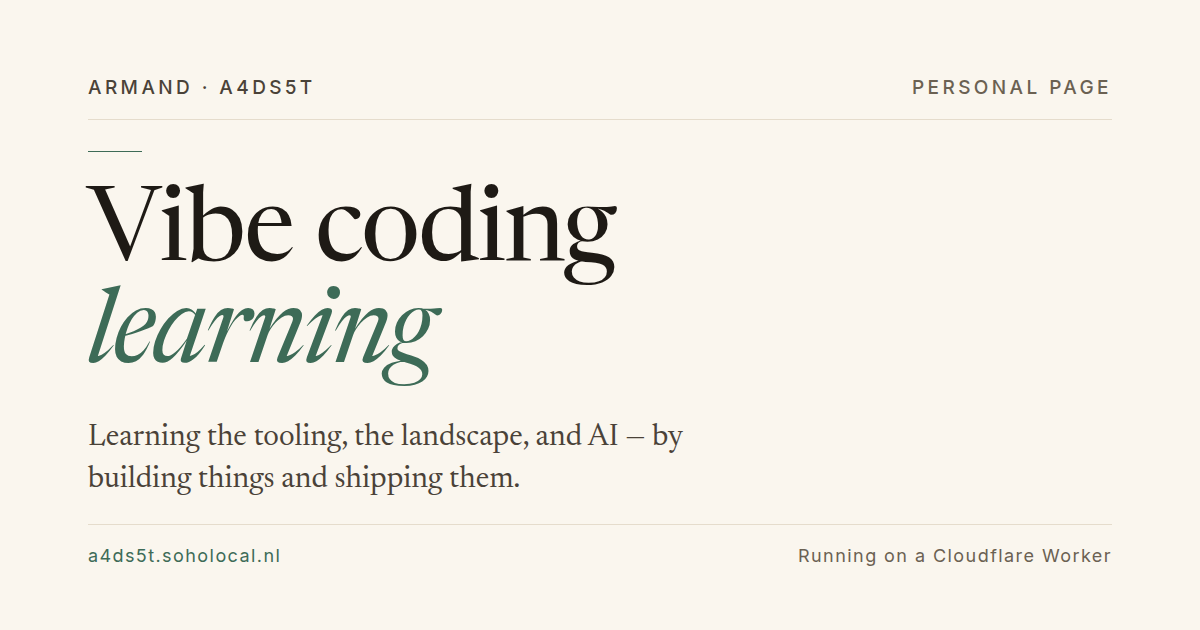
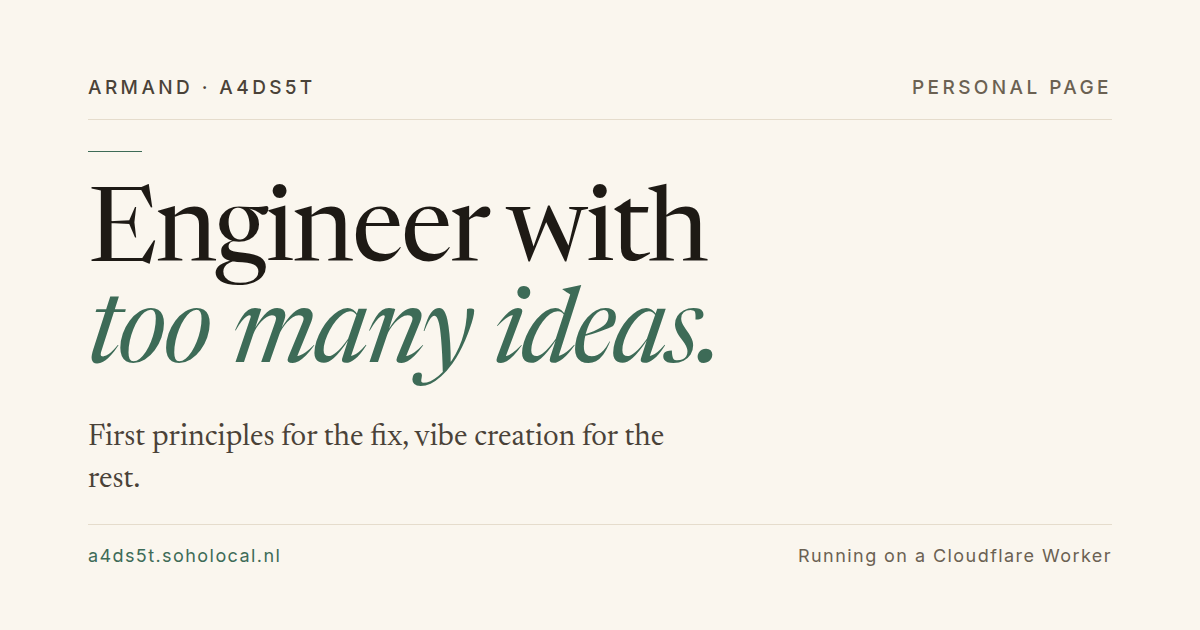
Content and meta update (preview only) (#8)
<!-- CURSOR_AGENT_PR_BODY_BEGIN -->
## Summary
- Refresh header, WHO/NOW/WORKING ON copy; drop top-bar X/GitHub (kept in Elsewhere)
- Add Writing section; Selected posts; Build in Public; **Bluesky** `@a4ds5t.bsky.social` in Elsewhere + JSON-LD `sameAs`
- Update `<head>` / OG / Twitter meta; regenerate `og-image.png`; sitemap `lastmod`; footer `v1.1.0`

## Preview (do not promote from this PR alone)
- Alias: https://content-meta-personal.drallas.workers.dev
- Latest version: `7a0ac875-0546-418c-ae2e-be21fba32b7b`

## Headers
Rebased onto main after #7 — production `_headers` (HSTS + insights CSP) preserved.

## Test plan
- [x] Preview shows new copy + Bluesky in Elsewhere
- [ ] Human Squash & Merge, then production deploy

<!-- CURSOR_AGENT_PR_BODY_END -->
[…]

Changed region(s): [[0.0617, 0.2714, 0.6167, 0.6333], [0.0617, 0.6635, 0.5858, 0.7841]]

diff --git a/public/index.html b/public/index.html
@@ -3,50 +3,48 @@
 <head>
 <meta charset="utf-8"/>
 <meta name="viewport" content="width=device-width, initial-scale=1"/>
-<title>Armand · personal page</title>
-<meta name="description" content="Armand — builds and ships with Grok.bot, Cursor, and Cloudflare Workers."/>
+<title>Armand van der Swaerdt · Engineer with too many ideas</title>
+<meta name="description" content="Engineer with too many ideas. I build small, useful tools with Grok.bot, Cursor and Cloudflare Workers, ship them, and write about it on X."/>
 <meta name="robots" content="index, follow"/>
 <link rel="canonical" href="https://a4ds5t.soholocal.nl/"/>
 <link rel="icon" href="/favicon.svg" type="image/svg+xml"/>
 <meta name="theme-color" content="#FAF6EE"/>
 <meta property="og:type" content="website"/>
 <meta property="og:site_name" content="Armand"/>
-<meta property="og:title" content="Armand · personal page"/>
-<meta property="og:description" content="Learning vibe coding — the tooling, the landscape, and AI — by building things and shipping them."/>
+<meta property="og:title" content="Armand van der Swaerdt · a4ds5t"/>
+<meta property="og:description" content="Engineer with too many ideas. I build small, useful tools with Grok.bot, Cursor and Cloudflare Workers, ship them, and write about it on X."/>
 <meta property="og:url" content="https://a4ds5t.soholocal.nl/"/>
 <meta property="og:image" content="https://a4ds5t.soholocal.nl/og-image.png"/>
 <meta property="og:image:type" content="image/png"/>
 <meta property="og:image:width" content="1200"/>
 <meta property="og:image:height" content="630"/>
-<meta property="og:image:alt" content="Vibe coding learning — Armand · a4ds5t, cream paper card with evergreen accents."/>
+<meta property="og:image:alt" content="Armand · a4ds5t — Engineer with too many ideas."/>
 <meta name="twitter:card" content="summary_large_image"/>
 <meta name="twitter:creator" content="@a4ds5t"/>
 <meta name="twitter:site" content="@a4ds5t"/>
-<meta name="twitter:title" content="Armand · personal page"/>
-<meta name="twitter:description" content="Learning vibe coding — the tooling, the landscape, and AI — by building things and shipping them."/>
+<meta name="twitter:title" content="Armand van der Swaerdt · a4ds5t"/>
+<meta name="twitter:description" content="Engineer with too many ideas. I build small, useful tools with Grok.bot, Cursor and Cloudflare Workers, ship them, and write about it on X."/>
 <meta name="twitter:image" content="https://a4ds5t.soholocal.nl/og-image.png"/>
-<meta name="twitter:image:alt" content="Vibe coding learning — Armand · a4ds5t, cream paper card with evergreen accents."/>
+<meta name="twitter:image:alt" content="Armand · a4ds5t — Engineer with too many ideas."/>
 <link rel="preload" href="/fonts/newsreader-latin.woff2" as="font" type="font/woff2" crossorigin="anonymous"/>
 <link rel="stylesheet" href="/b.css"/>
+<script type="application/ld+json" src="/person.jsonld"></script>
 </head>
 <body>
 <main class="sheet">
 
   <header class="topline">
-    <p class="who">Vibe coding learning</p>
-    <nav aria-label="Elsewhere">
-      <a href="https://x.com/a4ds5t" rel="me noopener">X</a>
-      <a href="https://github.com/a4ds5t" rel="me noopener">GitHub</a>
-    </nav>
+    <p class="who">Engineer with too many ideas.</p>
+    <p class="sub">First principles for the fix, vibe creation for the rest.</p>
   </header>
 
   <section class="row intro" aria-labelledby="hello">
     <p class="label">Who</p>
     <div class="col">
       <h1 id="hello">Hi, I&rsquo;m Armand.</h1>
-      <p class="lead">I build and ship with Grok.bot, Cursor, and Cloudflare Workers.</p>
-      <p>Quiet notes from shipping product and agents on the edge &mdash; the patterns that actually made it to production. Ideas are cheap; speed without taste is cheap too. The rare part is finding a path nobody else takes, then shipping it.</p>
-      <p>Most of what I write lands on X first. GitHub is where the code lives.</p>
+      <p class="lead">I build small, useful things with Grok.bot, Cursor and Cloudflare Workers, and ship them.</p>
+      <p>Ideas are cheap; speed without taste is cheap too. The rare part is finding a path nobody else takes, then shipping it.</p>
+      <p>I write on X first. The code lives on GitHub.</p>
     </div>
   </section>
 
@@ -54,7 +52,7 @@
     <h2 class="label" id="now-label">Now</h2>
     <div class="col now-line">
       <span class="pulse" aria-hidden="true"></span>
-      <p>I&rsquo;m learning vibe coding &mdash; the tooling, the landscape, and what AI can actually do. Most of it I learn by building small things and shipping them.</p>
+      <p>Building in public: small tools that solve real problems, each live on its own subdomain. Writing X Articles about what I learn along the way.</p>
     </div>
   </section>
 
@@ -64,33 +62,60 @@
       <ol class="projects">
         <li>
           <span class="num" aria-hidden="true">01</span>
-          <span class="name"><a href="https://xmas.soholocal.nl/">Christmas countdown</a>
-            <span class="desc">A live countdown to 25 December, in four languages.</span>
+          <span class="name"><a href="https://xmas.soholocal.nl/">Almost Christmas</a>
+            <span class="desc">A live countdown to 25 December in Dutch, English, Spanish and Chinese. <a href="https://x.com/a4ds5t/status/2115381640721576196" rel="noopener">Why I built it</a></span>
           </span>
           <span class="state">Live</span>
         </li>
         <li>
           <span class="num" aria-hidden="true">02</span>
-          <span class="name"><a href="https://start.soholocal.nl/">Start page (minimal)</a>
-            <span class="desc">A quiet personal launcher &mdash; search, clock, a few links.</span>
+          <span class="name"><a href="https://start.soholocal.nl/">StartPage</a>
+            <span class="desc">A fast, minimal browser start page with search, AI and your own links. <a href="https://x.com/a4ds5t/status/2115715496909664616" rel="noopener">Why I built it</a></span>
           </span>
           <span class="state">Live</span>
         </li>
+      </ol>
+      <p class="more"><a href="https://buildinpublic.com/x/a4ds5t" rel="noopener">All projects on Build in Public →</a></p>
+    </div>
+  </section>
+
+  <section class="row" aria-labelledby="writing">
+    <h2 class="label" id="writing">Writing</h2>
+    <div class="col">
+      <ol class="projects">
         <li>
-          <span class="num" aria-hidden="true">03</span>
-          <span class="name">Projects to learn vibe coding
-            <span class="desc">Small builds to learn the tooling, the stack, and the landscape.</span>
+          <span class="num" aria-hidden="true"></span>
+          <span class="name"><a href="https://x.com/a4ds5t/status/2115792089740964220" rel="noopener">What Siri could be with the chips Apple already ships</a>
+            <span class="desc">29 Oct 2026</span>
           </span>
-          <span class="state">Ongoing</span>
+        </li>
+        <li>
+          <span class="num" aria-hidden="true"></span>
+          <span class="name"><a href="https://x.com/a4ds5t/status/2116067825039102008" rel="noopener">Vibe-Creation: The New Standard for Value in a World Driven by Automated Mediocrity</a>
+            <span class="desc">30 Oct 2026</span>
+          </span>
+        </li>
+        <li>
+          <span class="num" aria-hidden="true"></span>
+          <span class="name"><a href="https://x.com/a4ds5t/status/2116472250371019149" rel="noopener">Why Being Right Too Early is a Systemic Liability</a>
+            <span class="desc">31 Oct 2026</span>
+          </span>
+        </li>
+        <li>
+          <span class="num" aria-hidden="true"></span>
+          <span class="name"><a href="https://x.com/a4ds5t/status/2116480614182396145" rel="noopener">Why Transparency is the Ultimate Toxin Filter</a>
+            <span class="desc">31 Oct 2026</span>
+          </span>
         </li>
       </ol>
+      <p class="more"><a href="https://x.com/a4ds5t" rel="me noopener">More on X →</a></p>
     </div>
   </section>
 
   <section class="row" aria-labelledby="posts">
     <h2 class="label" id="posts">From X</h2>
     <div class="col">
-      <p class="posts-note">Recent popular posts</p>
+      <p class="posts-note">Selected posts</p>
       <div class="posts">
         <figure class="post">
           <blockquote><p>Execution is a moat. The one that&rsquo;s harder to outsource to AI is human creativity and ingenuity. Ideas are cheap. Speed without taste is also cheap. The rare combo is inventing a path others wouldn&rsquo;t take then shipping it.</p></blockquote>
@@ -99,18 +124,13 @@
           </figcaption>
         </figure>
         <figure class="post">
-          <blockquote><p>The viz just makes the greatness of these composers impossible to ignore.</p></blockquote>
+          <blockquote><p>Being right too early looks exactly like being wrong. Organizations don&rsquo;t punish bad warnings. They punish inconvenient timing.</p></blockquote>
           <figcaption class="post-meta">
-            <a href="https://x.com/a4ds5t/status/2114277579859611715" rel="noopener">@a4ds5t on X</a>
-          </figcaption>
-        </figure>
-        <figure class="post">
-          <blockquote><p>Paris looks like this for a reason. A lot of people who love that beauty also worry about immigration, recent riots, and whether Europe can keep places like this while still working for everyone who lives here and follows the rules. Beauty isn&rsquo;t the fight. Better politics is.</p></blockquote>
-          <figcaption class="post-meta">
-            <a href="https://x.com/a4ds5t/status/2114326745490837617" rel="noopener">@a4ds5t on X</a>
+            <a href="https://x.com/a4ds5t/status/2116481612368228859" rel="noopener">@a4ds5t on X</a>
           </figcaption>
         </figure>
       </div>
+      <p class="more"><a href="https://x.com/a4ds5t" rel="me noopener">Follow @a4ds5t on X →</a></p>
     </div>
   </section>
 
@@ -119,14 +139,15 @@
     <div class="col">
       <div class="social">
         <a href="https://x.com/a4ds5t" rel="me noopener">X <span>@a4ds5t</span></a>
+        <a href="https://bsky.app/profile/a4ds5t.bsky.social" rel="me noopener">Bluesky <span>@a4ds5t.bsky.social</span></a>
         <a href="https://github.com/a4ds5t" rel="me noopener">GitHub <span>a4ds5t</span></a>
+        <a href="https://buildinpublic.com/x/a4ds5t" rel="noopener">Build in Public <span>a4ds5t</span></a>
       </div>
     </div>
   </section>
 
   <footer class="foot">
-    <span>Armand · a4ds5t</span>
-    <span>Running on a Cloudflare Worker</span>
+    <span>Armand · a4ds5t · Running on a Cloudflare Worker · v1.1.0 · updated 2026-11-01 11:14 CET</span>
   </footer>
 
 </main>

diff --git a/public/b.css b/public/b.css
@@ -107,20 +107,18 @@ a:focus-visible {
   color: var(--ink-soft);
 }
 
-.topline nav {
-  display: flex;
-  gap: 22px;
-}
-
-.topline nav a {
-  padding-bottom: 2px;
-  border-bottom: 1px solid transparent;
-  transition: color 0.18s ease, border-color 0.18s ease;
-}
-
-.topline nav a:hover {
+.topline .sub {
+  margin: 0;
+  max-width: 22em;
+  font-family: var(--serif);
+  font-size: 14px;
+  font-style: italic;
+  font-weight: 400;
+  line-height: 1.4;
+  letter-spacing: -0.01em;
+  text-transform: none;
+  text-align: right;
   color: var(--accent);
-  border-bottom-color: var(--accent);
 }
 
 /* ---- margin grid ---- */
@@ -276,6 +274,35 @@ a:focus-visible {
   text-transform: uppercase;
   white-space: nowrap;
   color: var(--accent);
+}
+
+.projects .desc a {
+  border-bottom: 1px solid var(--rule);
+  transition: color 0.18s ease, border-color 0.18s ease;
+}
+
+.projects .desc a:hover {
+  color: var(--accent);
+  border-color: var(--accent);
+}
+
+.more {
+  margin: 18px 0 0;
+  font-family: var(--sans);
+  font-size: 13px;
+  letter-spacing: 0.02em;
+  color: var(--muted);
+}
+
+.more a {
+  padding-bottom: 1px;
+  border-bottom: 1px solid var(--rule);
+  transition: color 0.18s ease, border-color 0.18s ease;
+}
+
+.more a:hover {
+  color: var(--accent);
+  border-color: var(--accent);
 }
 
 /* ---- posts ---- */
@@ -446,8 +473,9 @@ a:focus-visible {
     letter-spacing: 0.1em;
   }
 
-  .topline nav {
-    gap: 16px;
+  .topline .sub {
+    text-align: left;
+    max-width: none;
   }
 
   .social {

diff --git a/tools/og/og-image.html b/tools/og/og-image.html
@@ -139,8 +139,8 @@
 
     <div class="body">
       <div class="mark"></div>
-      <h1>Vibe coding<br/><em>learning</em></h1>
-      <p class="sub">Learning the tooling, the landscape, and AI &mdash; by building things and shipping them.</p>
+      <h1>Engineer with<br/><em>too many ideas.</em></h1>
+      <p class="sub">First principles for the fix, vibe creation for the rest.</p>
     </div>
 
     <div class="foot">
